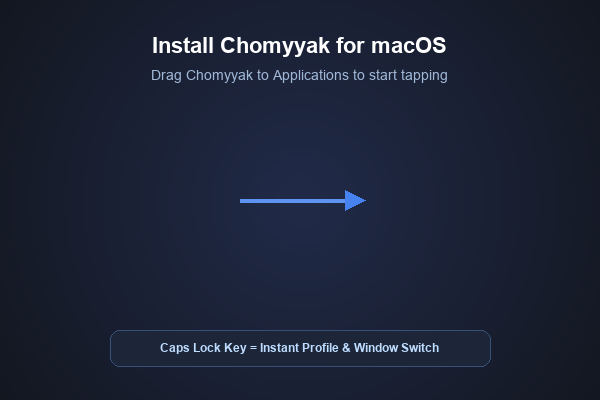
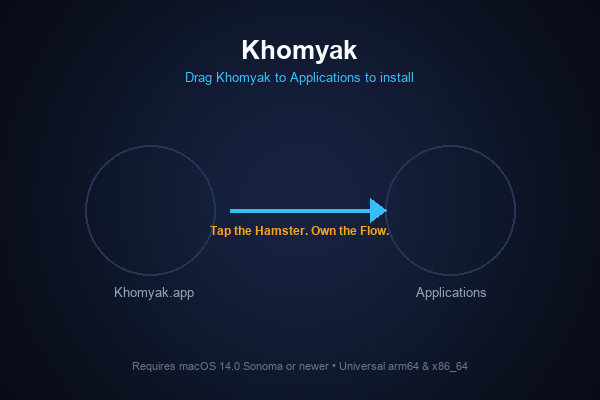
refactor(brand): restore name to Khomyak and enforce title-casing across suite

diff --git a/src/ChromeQuickAccess/Engine/CapsLockEngine.swift b/src/ChromeQuickAccess/Engine/CapsLockEngine.swift
@@ -18,10 +18,10 @@ public enum HIDMappingService {
         do {
             try task.run()
             task.waitUntilExit()
-            Logger(subsystem: "com.almosteleven.chomyyak", category: "hid").info("Applied Caps Lock -> F18 mapping via hidutil.")
+            Logger(subsystem: "com.almosteleven.khomyak", category: "hid").info("Applied Caps Lock -> F18 mapping via hidutil.")
             return task.terminationStatus == 0
         } catch {
-            Logger(subsystem: "com.almosteleven.chomyyak", category: "hid").error("Failed to set hidutil mapping: \(error.localizedDescription)")
+            Logger(subsystem: "com.almosteleven.khomyak", category: "hid").error("Failed to set hidutil mapping: \(error.localizedDescription)")
             return false
         }
     }
@@ -34,10 +34,10 @@ public enum HIDMappingService {
         do {
             try task.run()
             task.waitUntilExit()
-            Logger(subsystem: "com.almosteleven.chomyyak", category: "hid").info("Restored default HID key mapping.")
+            Logger(subsystem: "com.almosteleven.khomyak", category: "hid").info("Restored default HID key mapping.")
             return task.terminationStatus == 0
         } catch {
-            Logger(subsystem: "com.almosteleven.chomyyak", category: "hid").error("Failed to restore hidutil mapping: \(error.localizedDescription)")
+            Logger(subsystem: "com.almosteleven.khomyak", category: "hid").error("Failed to restore hidutil mapping: \(error.localizedDescription)")
             return false
         }
     }
@@ -77,7 +77,7 @@ public final class CapsLockEngine: @unchecked Sendable {
     /// Dynamic hotkey triggers keyed by virtual keycode (app-name letter shortcuts)
     public var dynamicKeyTriggers: [UInt32: @MainActor () -> Void] = [:]
     
-    private let logger = Logger(subsystem: "com.almosteleven.chomyyak", category: "engine")
+    private let logger = Logger(subsystem: "com.almosteleven.khomyak", category: "engine")
     
     public init() {
         setupWakeNotification()
@@ -119,7 +119,7 @@ public final class CapsLockEngine: @unchecked Sendable {
             Task { @MainActor in
                 let alert = NSAlert()
                 alert.messageText = "Accessibility Bug Detected"
-                alert.informativeText = "macOS granted Accessibility permissions, but denied the event tap. This happens when an app is recompiled and macOS caches the previous cdhash.\n\nPlease remove Chomyyak from System Settings > Privacy & Security > Accessibility and add it back."
+                alert.informativeText = "macOS granted Accessibility permissions, but denied the event tap. This happens when an app is recompiled and macOS caches the previous cdhash.\n\nPlease remove Khomyak from System Settings > Privacy & Security > Accessibility and add it back."
                 alert.alertStyle = .critical
                 alert.runModal()
             }

diff --git a/docs/site/index.html b/docs/site/index.html
@@ -3,13 +3,13 @@
 <head>
   <meta charset="UTF-8">
   <meta name="viewport" content="width=device-width, initial-scale=1.0, user-scalable=no">
-  <title>Chomyak (Choma) — Instant Chrome Profile Switcher for macOS</title>
+  <title>Khomyak — Instant Chrome Profile Switcher for macOS</title>
   <meta name="description" content="Switch Chrome profiles in 0ms across all macOS Spaces via Caps Lock + C.">
 
   <!-- OpenGraph -->
-  <meta property="og:title" content="Chomyak (Choma) — Instant Chrome Profile Switcher">
+  <meta property="og:title" content="Khomyak — Instant Chrome Profile Switcher">
   <meta property="og:description" content="Switch Chrome profiles in 0ms across all macOS Spaces via Caps Lock + C.">
-  <meta property="og:image" content="assets/images/chomyak_opengraph_banner.png">
+  <meta property="og:image" content="assets/images/khomyak_opengraph_banner.png">
 
   <link rel="icon" type="image/png" href="assets/images/AppIcon.png">
   <link rel="stylesheet" href="styles.css">
@@ -29,18 +29,18 @@
     <!-- Top Bar: Minimalist Branding & Single Download Action -->
     <header class="top-nav">
       <div class="nav-brand">
-        <img src="assets/images/AppIcon.png" alt="Chomyak Icon" class="brand-icon">
-        <span class="brand-name">CHOMYAK</span>
+        <img src="assets/images/AppIcon.png" alt="Khomyak Icon" class="brand-icon">
+        <span class="brand-name">Khomyak</span>
       </div>
 
       <div class="nav-controls">
         <button id="sound-toggle" class="glass-btn sound-btn" title="Toggle tactile sound">
           <span id="sound-icon">🔊</span>
         </button>
-        <a href="https://github.com/almosteleven/chomyak" target="_blank" rel="noopener" class="glass-link">
+        <a href="https://github.com/almosteleven/khomyak" target="_blank" rel="noopener" class="glass-link">
           GitHub ↗
         </a>
-        <a href="assets/downloads/Chomyak.dmg" class="download-btn" download>
+        <a href="assets/downloads/Khomyak.dmg" class="download-btn" download>
           <span>⬇</span> Download DMG <span class="dmg-size">2.5 MB</span>
         </a>
       </div>

diff --git a/src/ChromeQuickAccess/AppDelegate.swift b/src/ChromeQuickAccess/AppDelegate.swift
@@ -5,10 +5,10 @@ import os
 @MainActor
 public final class AppDelegate: NSObject, NSApplicationDelegate {
     private var statusItem: NSStatusItem?
-    private let logger = Logger(subsystem: "com.almosteleven.chomyyak", category: "app")
+    private let logger = Logger(subsystem: "com.almosteleven.khomyak", category: "app")
     
     public func applicationDidFinishLaunching(_ notification: Notification) {
-        logger.info("Starting Chomyyak...")
+        logger.info("Starting Khomyak...")
         
         // 1. Setup Menu Bar Status Item
         setupStatusItem()
@@ -29,7 +29,7 @@ public final class AppDelegate: NSObject, NSApplicationDelegate {
     }
     
     public func applicationWillTerminate(_ notification: Notification) {
-        logger.info("Terminating Chomyyak: cleaning up event taps and restoring HID mapping.")
+        logger.info("Terminating Khomyak: cleaning up event taps and restoring HID mapping.")
         CapsLockEngine.shared.stop()
         CopyOnSelectEngine.shared.stop()
     }
@@ -312,7 +312,7 @@ public final class AppDelegate: NSObject, NSApplicationDelegate {
         statusItem = NSStatusBar.system.statusItem(withLength: NSStatusItem.variableLength)
         guard let button = statusItem?.button else { return }
         
-        if let image = NSImage(systemSymbolName: "globe", accessibilityDescription: "Chomyyak — Tap the Hamster") {
+        if let image = NSImage(systemSymbolName: "globe", accessibilityDescription: "Khomyak — Tap the Hamster") {
             image.isTemplate = true
             button.image = image
         } else {
@@ -554,7 +554,7 @@ public final class AppDelegate: NSObject, NSApplicationDelegate {
         menu.addItem(NSMenuItem.separator())
         
         let quitItem = makeAlignedMenuItem(
-            title: "Quit Chomyyak",
+            title: "Quit Khomyak",
             keyEquivalent: "q",
             modifierMask: [.command],
             action: #selector(handleQuit),

diff --git a/tests/ChromeQuickAccessTests/ChromeQuickAccessTests.swift b/tests/ChromeQuickAccessTests/ChromeQuickAccessTests.swift
@@ -992,7 +992,7 @@ struct ChromeQuickAccessUnitTests {
         #expect(refreshItem?.keyEquivalent == "r")
         #expect(refreshItem?.keyEquivalentModifierMask == [.command])
         
-        let quitItem = menu.items.first(where: { $0.title.contains("Quit Chomyyak") })
+        let quitItem = menu.items.first(where: { $0.title.contains("Quit Khomyak") })
         #expect(quitItem != nil)
         #expect(quitItem?.keyEquivalent == "q")
         #expect(quitItem?.keyEquivalentModifierMask == [.command])

diff --git a/docs/site/styles.css b/docs/site/styles.css
@@ -1,5 +1,5 @@
 /* ==========================================================================
-   CHOMYAK (CHOMA) — Ethereal Bright Liminal 3D Hamster Experience
+   Khomyak (Хомяк) — Ethereal Bright Liminal 3D Hamster Experience
    Luminous, white, pinkish, zero-noise, hyper-realistic giant hamster.
    ========================================================================== */
 

diff --git a/src/ChromeQuickAccess/Engine/CopyOnSelectEngine.swift b/src/ChromeQuickAccess/Engine/CopyOnSelectEngine.swift
@@ -32,7 +32,7 @@ public final class CopyOnSelectEngine: @unchecked Sendable {
         pendingCopyTask = nil
     }
     
-    private let logger = Logger(subsystem: "com.almosteleven.chomyyak", category: "copy-on-select")
+    private let logger = Logger(subsystem: "com.almosteleven.khomyak", category: "copy-on-select")
     
     public init() {}
     

diff --git a/scripts/render_light_mascot.html b/scripts/render_light_mascot.html
@@ -2,7 +2,7 @@
 <html lang="en">
 <head>
   <meta charset="UTF-8">
-  <title>Render Chomyak Light 3D Logo</title>
+  <title>Render Khomyak Light 3D Logo</title>
   <style>
     * { margin: 0; padding: 0; box-sizing: border-box; }
     html, body { width: 1024px; height: 1024px; overflow: hidden; background: #FDF8FA; }

diff --git a/docs/site/app.js b/docs/site/app.js
@@ -1,5 +1,5 @@
 /**
- * CHOMYAK (CHOMA) — Ethereal Bright Liminal 3D Giant Hamster Experience
+ * Khomyak (Хомяк) — Ethereal Bright Liminal 3D Giant Hamster Experience
  * Ultra-clean, photorealistic giant geometric Bauhaus hamster filling the screen.
  */
 

diff --git a/scripts/generate_media_assets.py b/scripts/generate_media_assets.py
@@ -1,7 +1,7 @@
 #!/usr/bin/env python3
 """
 scripts/generate_media_assets.py
-Generates high-resolution, neuroaesthetics-grounded brand media assets for Chomyyak (Choma):
+Generates high-resolution, neuroaesthetics-grounded brand media assets for Khomyak (Хомяк):
 1. README Hero Banner (1200x480)
 2. OpenGraph / GitHub Social Preview (1280x640)
 3. Custom DMG Installer Window Background (600x400)
@@ -106,7 +106,7 @@ def generate_readme_hero():
     draw_pill(draw, (p2_x + 10, 58), "SUB-16MS FLOW", font_badge, fill=(15, 23, 42, 220), outline=(245, 166, 35), text_color=C_GOLD)
     
     font_title = get_font(52, bold=True)
-    draw.text((fx, 102), "CHOMYYAK", fill=C_TEXT_WHITE, font=font_title)
+    draw.text((fx, 102), "Khomyak", fill=C_TEXT_WHITE, font=font_title)
     
     font_slogan = get_font(26, bold=True)
     draw.text((fx, 170), "Tap the Hamster. Own the Flow.", fill=C_GOLD, font=font_slogan)
@@ -143,9 +143,8 @@ def generate_readme_hero():
     draw_pill(draw, (fx + 285, card_y + 74), "⇪ + T / I / A / N", font_key, fill=(30, 41, 68), outline=C_GREEN, text_color=C_GREEN, pad_x=10, pad_y=4)
     draw.text((fx + 425, card_y + 80), "➔ Instant 5-App Switch", fill=C_TEXT_MUTED, font=font_action)
 
-    out_path = ASSETS_DIR / "chomyyak_readme_hero.png"
+    out_path = ASSETS_DIR / "khomyak_readme_hero.png"
     bg.save(out_path, "PNG")
-    bg.save(ASSETS_DIR / "khomyak_readme_hero.png", "PNG")
     print(f"✅ Generated: {out_path}")
 
 # -------------------------------------------------------------
@@ -169,7 +168,7 @@ def generate_opengraph_banner():
     draw_pill(draw, (p1_x + 12, 110), "100% NATIVE SWIFT 6", font_badge, fill=(15, 23, 42, 220), outline=C_GOLD, text_color=C_GOLD)
     
     font_title = get_font(64, bold=True)
-    draw.text((fx, 160), "CHOMYYAK", fill=C_TEXT_WHITE, font=font_title)
+    draw.text((fx, 160), "Khomyak", fill=C_TEXT_WHITE, font=font_title)
     
     font_slogan = get_font(32, bold=True)
     draw.text((fx, 244), "Tap the Hamster. Own the Flow.", fill=C_GOLD, font=font_slogan)
@@ -208,9 +207,8 @@ def generate_opengraph_banner():
     draw.text((fx + 515, 512), "MIT", fill=C_TEXT_WHITE, font=font_metric_num)
     draw.text((fx + 515, 536), "Open Source", fill=C_TEXT_MUTED, font=font_metric_lbl)
 
-    out_path = ASSETS_DIR / "chomyyak_opengraph_banner.png"
+    out_path = ASSETS_DIR / "khomyak_opengraph_banner.png"
     bg.save(out_path, "PNG")
-    bg.save(ASSETS_DIR / "khomyak_opengraph_banner.png", "PNG")
     print(f"✅ Generated: {out_path}")
 
 # -------------------------------------------------------------
@@ -224,18 +222,18 @@ def generate_dmg_background():
     font_title = get_font(26, bold=True)
     font_sub = get_font(13, bold=False)
     
-    bbox = draw.textbbox((0, 0), "Chomyyak", font=font_title)
+    bbox = draw.textbbox((0, 0), "Khomyak", font=font_title)
     tw = bbox[2] - bbox[0]
-    draw.text(((w - tw) // 2, 35), "Chomyyak", fill=C_TEXT_WHITE, font=font_title)
+    draw.text(((w - tw) // 2, 35), "Khomyak", fill=C_TEXT_WHITE, font=font_title)
     
-    sub_text = "Drag Chomyyak to Applications to install"
+    sub_text = "Drag Khomyak to Applications to install"
     sbbox = draw.textbbox((0, 0), sub_text, font=font_sub)
     stw = sbbox[2] - sbbox[0]
     draw.text(((w - stw) // 2, 70), sub_text, fill=C_CYAN, font=font_sub)
     
     app_cx, app_cy = 150, 210
     draw.ellipse([app_cx - 65, app_cy - 65, app_cx + 65, app_cy + 65], outline=(38, 52, 85), width=2)
-    draw.text((app_cx - 36, app_cy + 75), "Chomyyak.app", fill=C_TEXT_MUTED, font=font_sub)
+    draw.text((app_cx - 36, app_cy + 75), "Khomyak.app", fill=C_TEXT_MUTED, font=font_sub)
     
     app_rx, app_ry = 450, 210
     draw.ellipse([app_rx - 65, app_ry - 65, app_rx + 65, app_ry + 65], outline=(38, 52, 85), width=2)

diff --git a/docs/site/serve.py b/docs/site/serve.py
@@ -97,7 +97,7 @@ class RangeRequestHandler(BaseHTTPRequestHandler):
 def run(port=8080):
     server_address = ('127.0.0.1', port)
     httpd = HTTPServer(server_address, RangeRequestHandler)
-    print(f"🐹 Chomyak Web Server running at: http://127.0.0.1:{port}/")
+    print(f"🐹 Khomyak Web Server running at: http://127.0.0.1:{port}/")
     print(f"📂 Serving directory: {DIRECTORY}")
     try:
         httpd.serve_forever()

diff --git a/docs/BRANDBOOK_BAUHAUS_EDITION.md b/docs/BRANDBOOK_BAUHAUS_EDITION.md
@@ -1,4 +1,4 @@
-# Chomyak (Bauhaus Edition) — Constructivist Neuroaesthetics Brandbook 📐🐹
+# Khomyak (Bauhaus Edition) — Constructivist Neuroaesthetics Brandbook 📐🐹
 
 > **The Synthesis of Weimar Constructivism & Cognitive Neuroscience**  
 > Grounded in *Brain, Beauty, & Art: Foundations of Neuroaesthetics* (Anjan Chatterjee & Eileen R. Cardillo, Eds., Oxford University Press, 2022)  
@@ -8,7 +8,7 @@
 
 ## 1. Executive Summary & Brand Purpose
 
-**Chomyak: Bauhaus Edition** (Choma / Хома / *Der Hamster*) is a radical functionalist re-imagining of the macOS productivity suite.
+**Khomyak: Bauhaus Edition** (Хомяк / *Der Hamster*) is a radical functionalist re-imagining of the macOS productivity suite.
 
 * **The Core Philosophy:** *«Form folgt Fluss»* (*"Form Follows Flow"*). Ornamental skeuomorphism, digital fur textures, and frivolous micro-details are eliminated. In their place stands pure, irreducible geometric constructivism designed to achieve zero cognitive friction.
 * **The Transformed Metaphor:** Tapping the physical Caps-Lock key ceases to be a playful cartoon meme and becomes an **industrial switchboard operation**—a tactile, driverless bridge between developer cognition and machine execution.
@@ -22,12 +22,12 @@
 
 ## 2. Visual Identity & Iconography
 
-![Chomyak Bauhaus Identity App Icon](file:///Users/igorekishev/Igor/igorekishev/mac-productivity-suite/assets/khomyak_bauhaus_identity_appicon.jpg)
+![Khomyak Bauhaus Identity App Icon](file:///Users/igorekishev/Igor/igorekishev/mac-productivity-suite/assets/khomyak_bauhaus_identity_appicon.jpg)
 
 ### The Geometric Deconstruction (Geon Theory)
 In 1987, cognitive neuroscientist Irving Biederman proposed **Recognition-by-Components (RBC)**: the human ventral visual stream (V4/IT) parses complex objects into fundamental 3D volumetric primitives called **geons** (cylinders, spheres, wedges, blocks). 
 
-The Bauhaus Chomyak reduces the mascot into five pure geometric geons:
+The Bauhaus Khomyak reduces the mascot into five pure geometric geons:
 1. **The Dual Cheek Spheres (🟡 Cadmium Yellow):** Intersecting Euclidean circular disks delivering the mandatory 60% horizontal facial width.
 2. **Concentric Ocular Rings (⚪ Warm Cream & 🔘 Obsidian):** Two high-contrast concentric circular discs creating a fixation target for the Fusiform Face Area (FFA).
 3. **The Vitality Triangle (🔴 Vermilion Red):** An inverted equilateral triangle serving as the nose/muzzle, driving acute attention (salience network).
@@ -46,7 +46,7 @@ graph TD
     C <--> A
 ```
 
-| Triad Node | Neurobiological Target | Bauhaus Translation | Implementation in Chomyak |
+| Triad Node | Neurobiological Target | Bauhaus Translation | Implementation in Khomyak |
 | :--- | :--- | :--- | :--- |
 | **Sensory-Motor** | Ventral/Dorsal streams, F5 premotor mirror neurons | László Moholy-Nagy’s tactile charts (*Tasttafeln*) & industrial honesty | The keycap is rendered as an axonometric mechanical prism; paws physically depress the switch block to prime keyboard tap action. |
 | **Emotion-Valuation** | Medial Orbitofrontal Cortex (mOFC), Ventral Striatum | Wassily Kandinsky’s color-form synesthesia (*Point and Line to Plane*) | Primary Cadmium Yellow radiates warmth and safety; Vermilion Red activates alertness; Cobalt Blue provides grounding stability. |
@@ -115,8 +115,8 @@ graph TD
 
 ### 6.1 Typography
 * **macOS UI Font:** Apple SF Pro / SF Pro Text with tight geometric letter spacing (`-0.015em`).
-* **Display / Brand Wordmark:** Geometric Grotesque (Futura, DIN 1451, or SF Pro Display Black in ALL-CAPS with `letter-spacing: +0.08em`).
-* **Wordmark Rendering:** `CHOMYAK` with a subtle geometric dot (`CHOMYAK · 1919`).
+* **Display / Brand Wordmark:** Geometric Grotesque (Futura, DIN 1451, or SF Pro Display Black with `letter-spacing: +0.08em`).
+* **Wordmark Rendering:** `Khomyak` with a subtle geometric dot (`Khomyak · 1919`).
 
 ### 6.2 Minimal HUD Overlay (Bauhaus Edition)
 * **Architecture:** Constructivist floating palette with stark 1px `#475569` borders and dark blur vibrancy (`NSVisualEffectView.Material.hudWindow`).
@@ -132,7 +132,7 @@ graph TD
 
 ## 7. Comparison: Classic Neuroaesthetics vs. Bauhaus Constructivist
 
-| Dimension | Classic Chomyak (v1.0.0) | Chomyak: Bauhaus Edition |
+| Dimension | Classic Khomyak (v1.0.0) | Khomyak: Bauhaus Edition |
 | :--- | :--- | :--- |
 | **Aesthetic Paradigm** | Apple 3D Emoji / Pixar Stylization | Weimar Constructivism / Functionalist Modernism |
 | **Visual Texture** | Soft gradients, subsurface gloss, 3D clay | Flat planes, crisp geometric contours, axonometric solids |

diff --git a/docs/BRANDBOOK_NEUROAESTHETICS.md b/docs/BRANDBOOK_NEUROAESTHETICS.md
@@ -1,4 +1,4 @@
-# Chomyak (Choma / Хома) — Neuroaesthetics Brandbook 🐹
+# Khomyak (Хомяк) — Neuroaesthetics Brandbook 🐹
 
 > **Grounded in Cognitive Neuroscience & Empirical Aesthetics**  
 > Based on *Brain, Beauty, & Art: Foundations of Neuroaesthetics* (Anjan Chatterjee & Eileen R. Cardillo, Eds., Oxford University Press, 2022).
@@ -7,14 +7,14 @@
 
 ## 1. Executive Summary & Brand Purpose
 
-**Chomyak** (Choma / Хома) is a lightweight, zero-latency macOS productivity suite built in pure native Swift 6 and SwiftUI.
+**Khomyak** (Хомяк) is a lightweight, zero-latency macOS productivity suite built in pure native Swift 6 and SwiftUI.
 
 * **The Core Metaphor:** Tapping the physical Caps-Lock key replaces the futile mobile phone tap-to-earn meme with instantaneous developer flow state.
 * **Primary Slogan:**
   > *«Тапни хомяка — войди в поток.»* (*“Tap the Hamster. Own the Flow.”*)
 * **Tagline:** *Your Mac’s tactile home-row buddy.*
 
-Neuroaesthetics demonstrates that visual aesthetic experiences are evolutionary prediction and reward mechanisms. By grounding Chomyak's visual identity in neuroscience, we optimize both optical legibility in macOS and neuromuscular habit formation on the keyboard.
+Neuroaesthetics demonstrates that visual aesthetic experiences are evolutionary prediction and reward mechanisms. By grounding Khomyak's visual identity in neuroscience, we optimize both optical legibility in macOS and neuromuscular habit formation on the keyboard.
 
 ---
 
@@ -30,7 +30,7 @@ graph TD
     C <--> A
 ```
 
-Every visual and interactive expression of Chomyak must activate all three nodes:
+Every visual and interactive expression of Khomyak must activate all three nodes:
 1. **Sensory-Motor:** High figure-to-ground contrast (>7:1), curved 3D volumes, and tactile keycap manipulation that primes motor action.
 2. **Emotion-Valuation:** Dopaminergic warmth and mOFC affiliative facial reward (*Kindchenschema*).
 3. **Knowledge-Meaning:** Rapid cognitive resolution bridging internet culture (*"Тапни хомяка"*) with deep developer flow.
@@ -44,16 +44,16 @@ Every visual and interactive expression of Chomyak must activate all three nodes
 
 * **Neural Mechanism:** The **Medial Orbitofrontal Cortex (mOFC)** automatically codes the reward value of faces even during passive viewing. Faces combining happy expressions with infant morphology (*Kindchenschema*) generate pronounced positive valuation signals.
 * **Design Mandates:**
-  * **The 60% Cheek Rule:** Chomyak’s puffed cheeks must account for at least 60% of the horizontal face width, evoking evolutionary cues of abundance, safety, and non-threatening companionship.
+  * **The 60% Cheek Rule:** Khomyak’s puffed cheeks must account for at least 60% of the horizontal face width, evoking evolutionary cues of abundance, safety, and non-threatening companionship.
   * **High-Gloss Dark Eyes:** Large, dark, glossy eyes with crisp white reflections drive immediate ocular fixation in the Fusiform Face Area (FFA).
-  * **Affiliative Expression:** Avoid deadpan or aggressive mascot styling. Chomyak maintains an open, friendly grin with subtle tooth display.
+  * **Affiliative Expression:** Avoid deadpan or aggressive mascot styling. Khomyak maintains an open, friendly grin with subtle tooth display.
 
 ### Law 2: Sensorimotor Mirroring & Embodied Simulation
 *(Chapter 18: Gallese, Freedberg & Umiltà, pp. 110–114)*
 
 * **Neural Mechanism:** Viewing an image triggers **online bodily simulation** via the mirror neuron system. Observing a subject actively grasping or pressing a tactile object fires the beholder’s premotor cortex.
 * **Design Mandates:**
-  * **The Tactile Keycap Contact:** Chomyak is never depicted empty-handed. His paws must physically cradle the glowing keyboard keycap.
+  * **The Tactile Keycap Contact:** Khomyak is never depicted empty-handed. His paws must physically cradle the glowing keyboard keycap.
   * **Motor Priming:** The visual contact between tiny paws and the **`⇪`** keycap primes the user’s left hand to tap the Caps-Lock key.
   * **Mechanical Fidelity:** Keycaps must be rendered with realistic mechanical dishing, cylindrical top indentation, and beveled switch edges.
 
